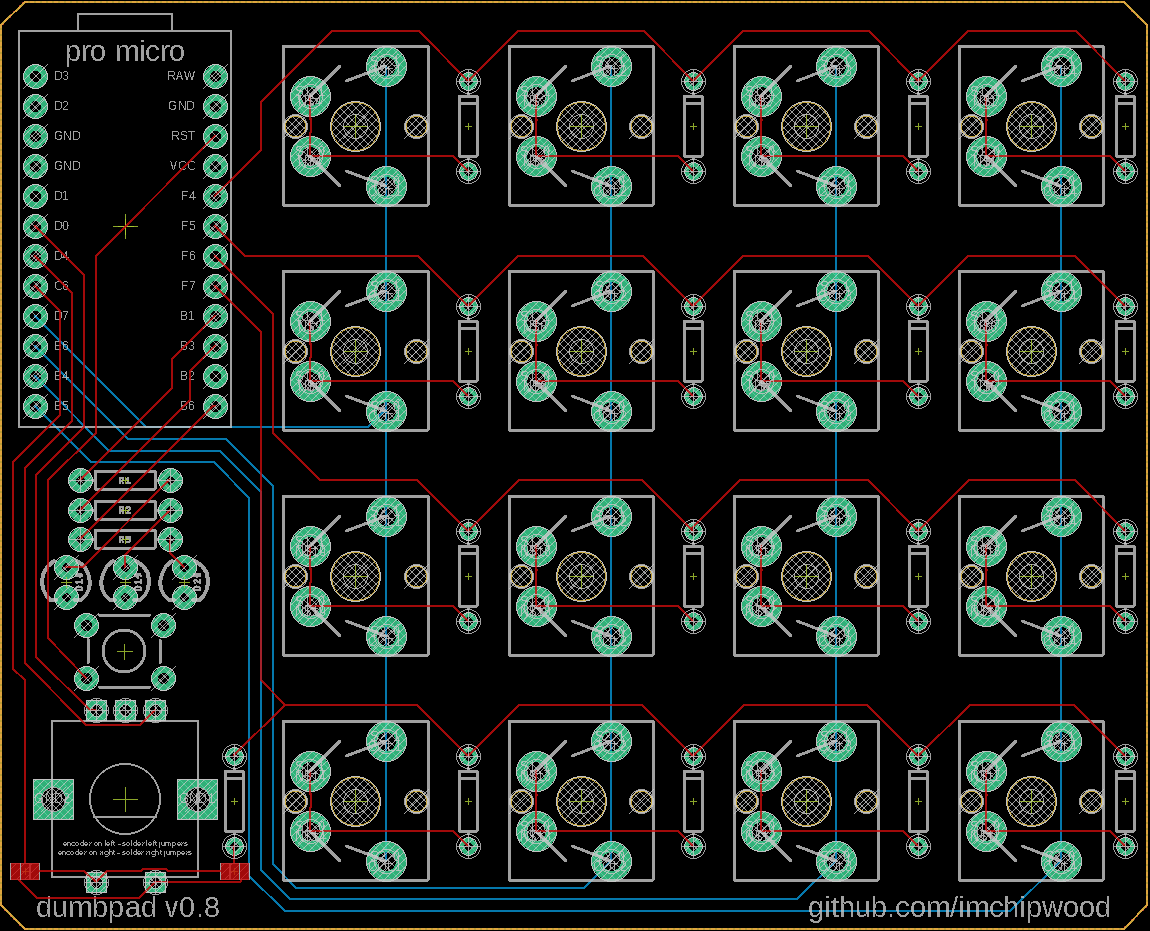
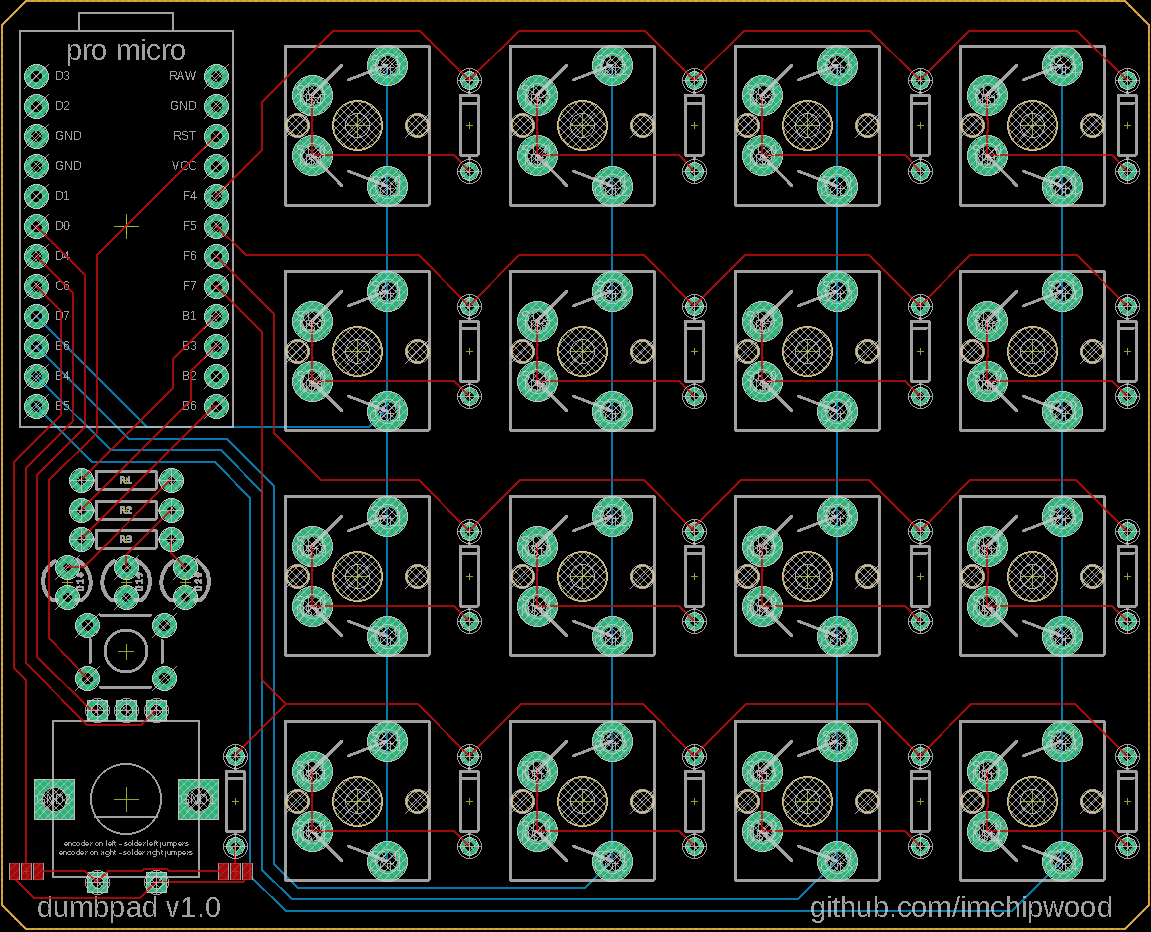
updated readme, made jumpers a little bigger for easier soldering, updated version to 1.0

Changed region(s): [[0.0, 0.0311, 1.0, 1.0], [0.0609, 0.0, 0.1522, 0.0623], [0.0913, 0.218, 0.1217, 0.2492]]

diff --git a/README.md b/README.md
@@ -15,7 +15,7 @@ It is designed to run [QMK firmware](https://github.com/qmk/qmk_firmware) - chec
 - v0.7 PCB is flippable. Two jumpers must be soldered:
   - Encoder on left (default layout) - solder the left side of the jumpers to the center
   - Encoder on right (PCB upside down) - solder the right side of the jumpers to the center
-- v0.8 PCB adds a 3rd LED - default use is to indicate if NUMLOCK is on
+- v1.0 PCB adds a 3rd LED - default use is to indicate if NUMLOCK is on
 
 #### dumbpad v0.2, PCB by [OSH Park](https://www.oshpark.com)
 ![dumbpad](https://i.imgur.com/sS3fq1Z.jpg)
@@ -31,7 +31,7 @@ It is designed to run [QMK firmware](https://github.com/qmk/qmk_firmware) - chec
 * 1x EC11 rotary encoder with pushbutton (7-pin)
 * (optional) 1x 6mm tactile switch (to reset MCU)
 * (optional) 3x 3mm LEDs (whatever color)
-* (optional) 3x 220ohm or similar resistors for the LEDS (not needed if not adding LEDs)
+* (optional) 3x 330ohm or similar resistors for the LEDS (not needed if not adding LEDs)
 
 #### Notes
 - No case is currently available
